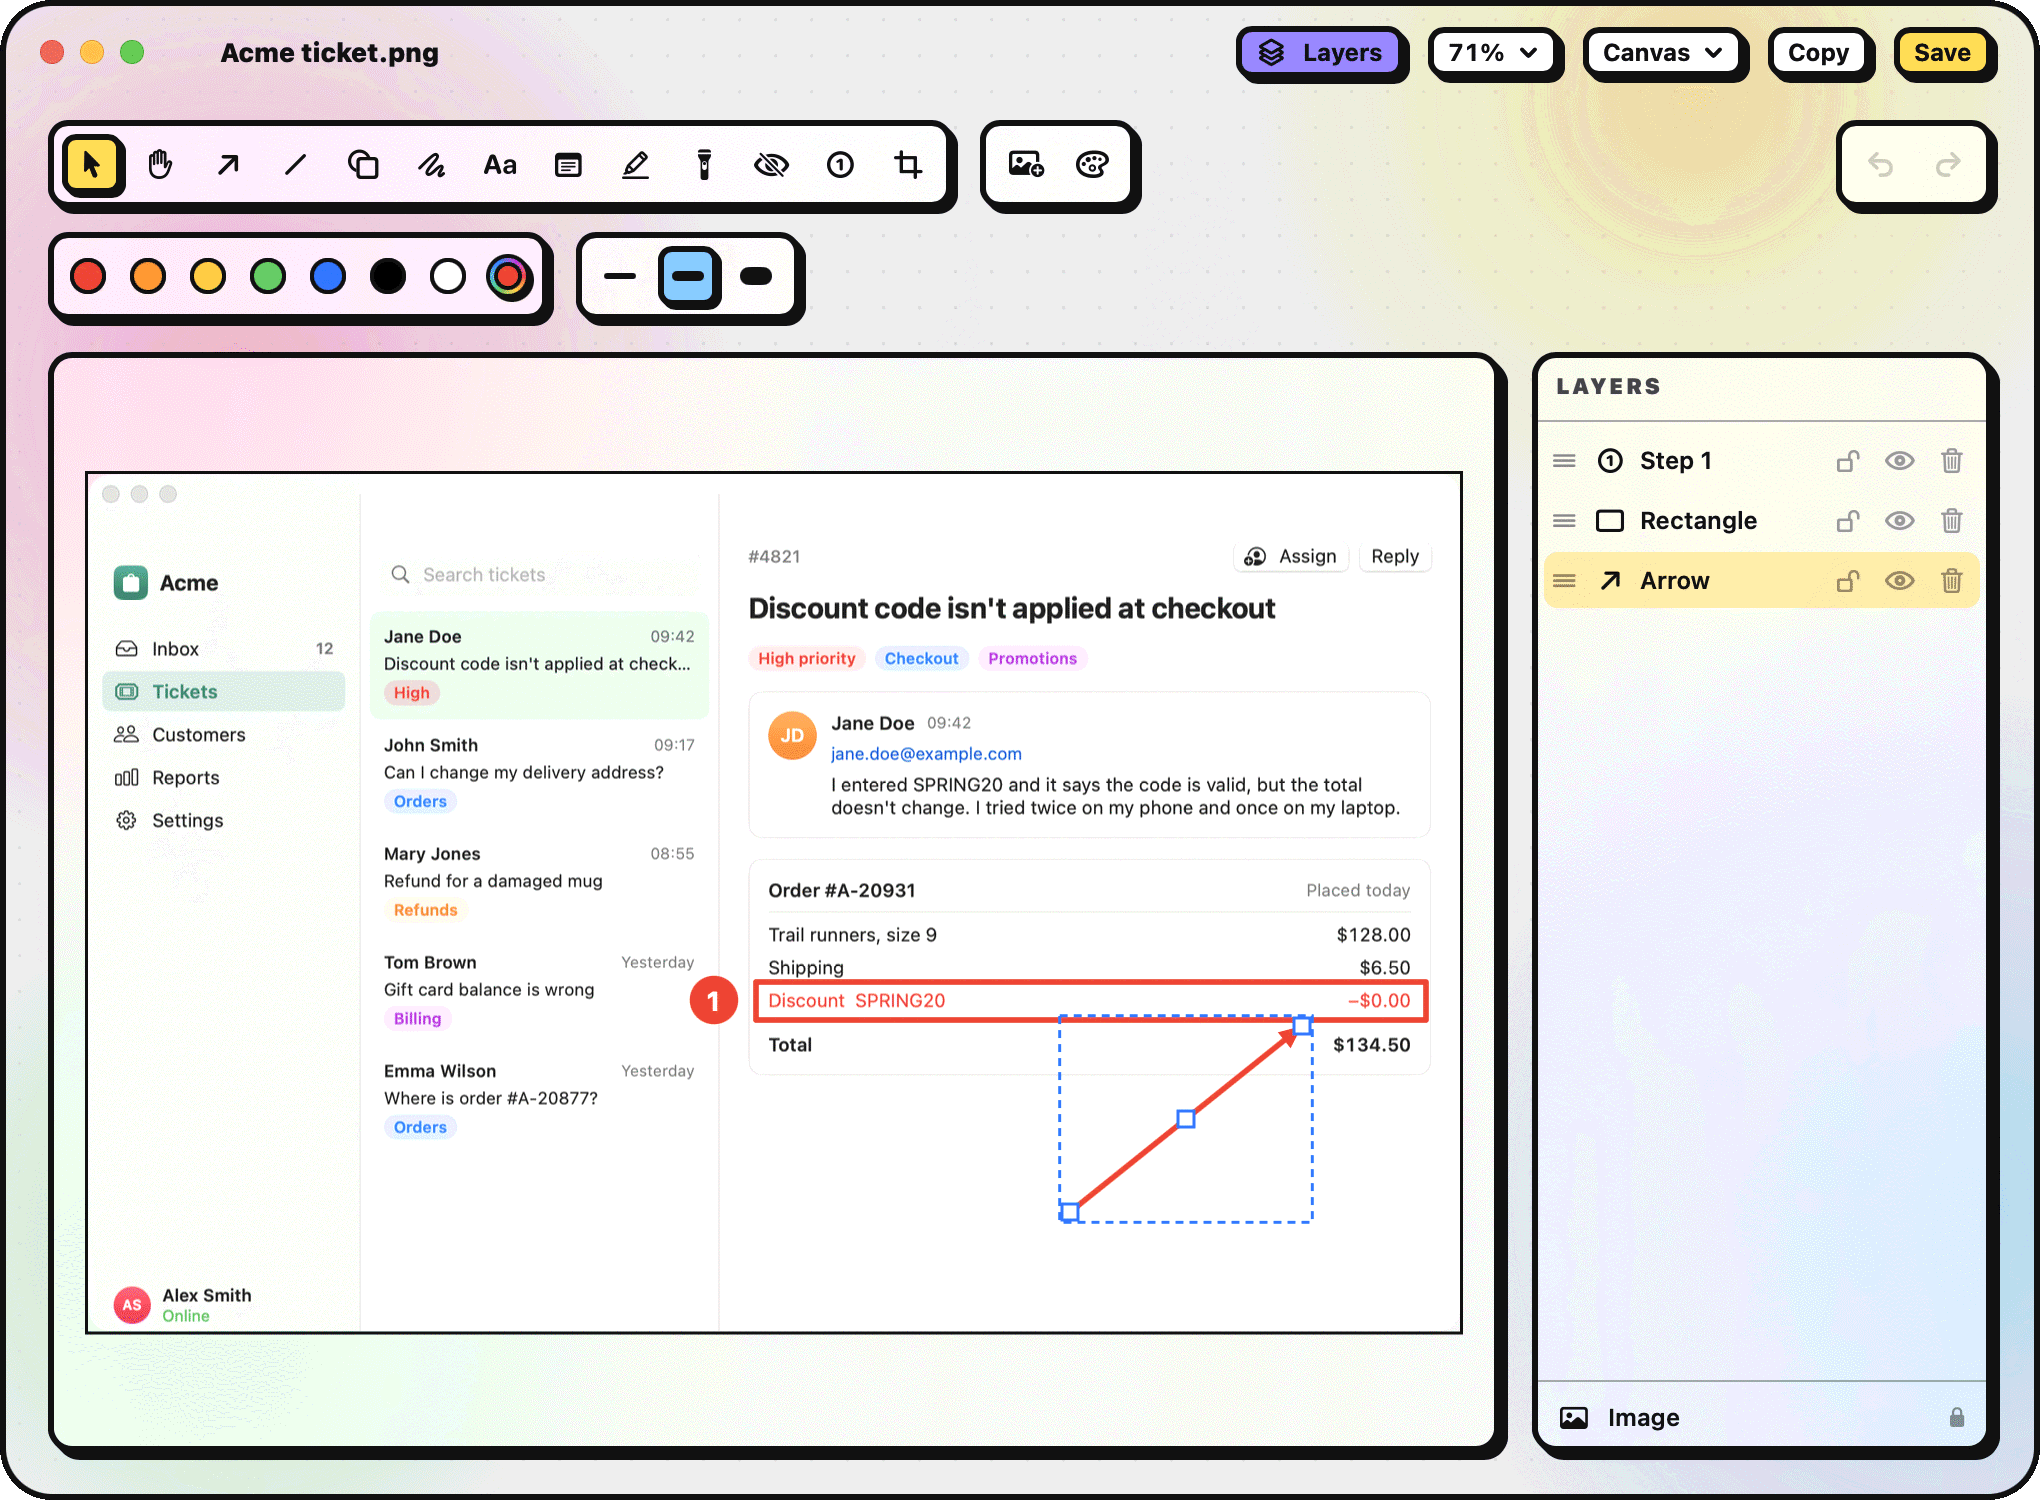
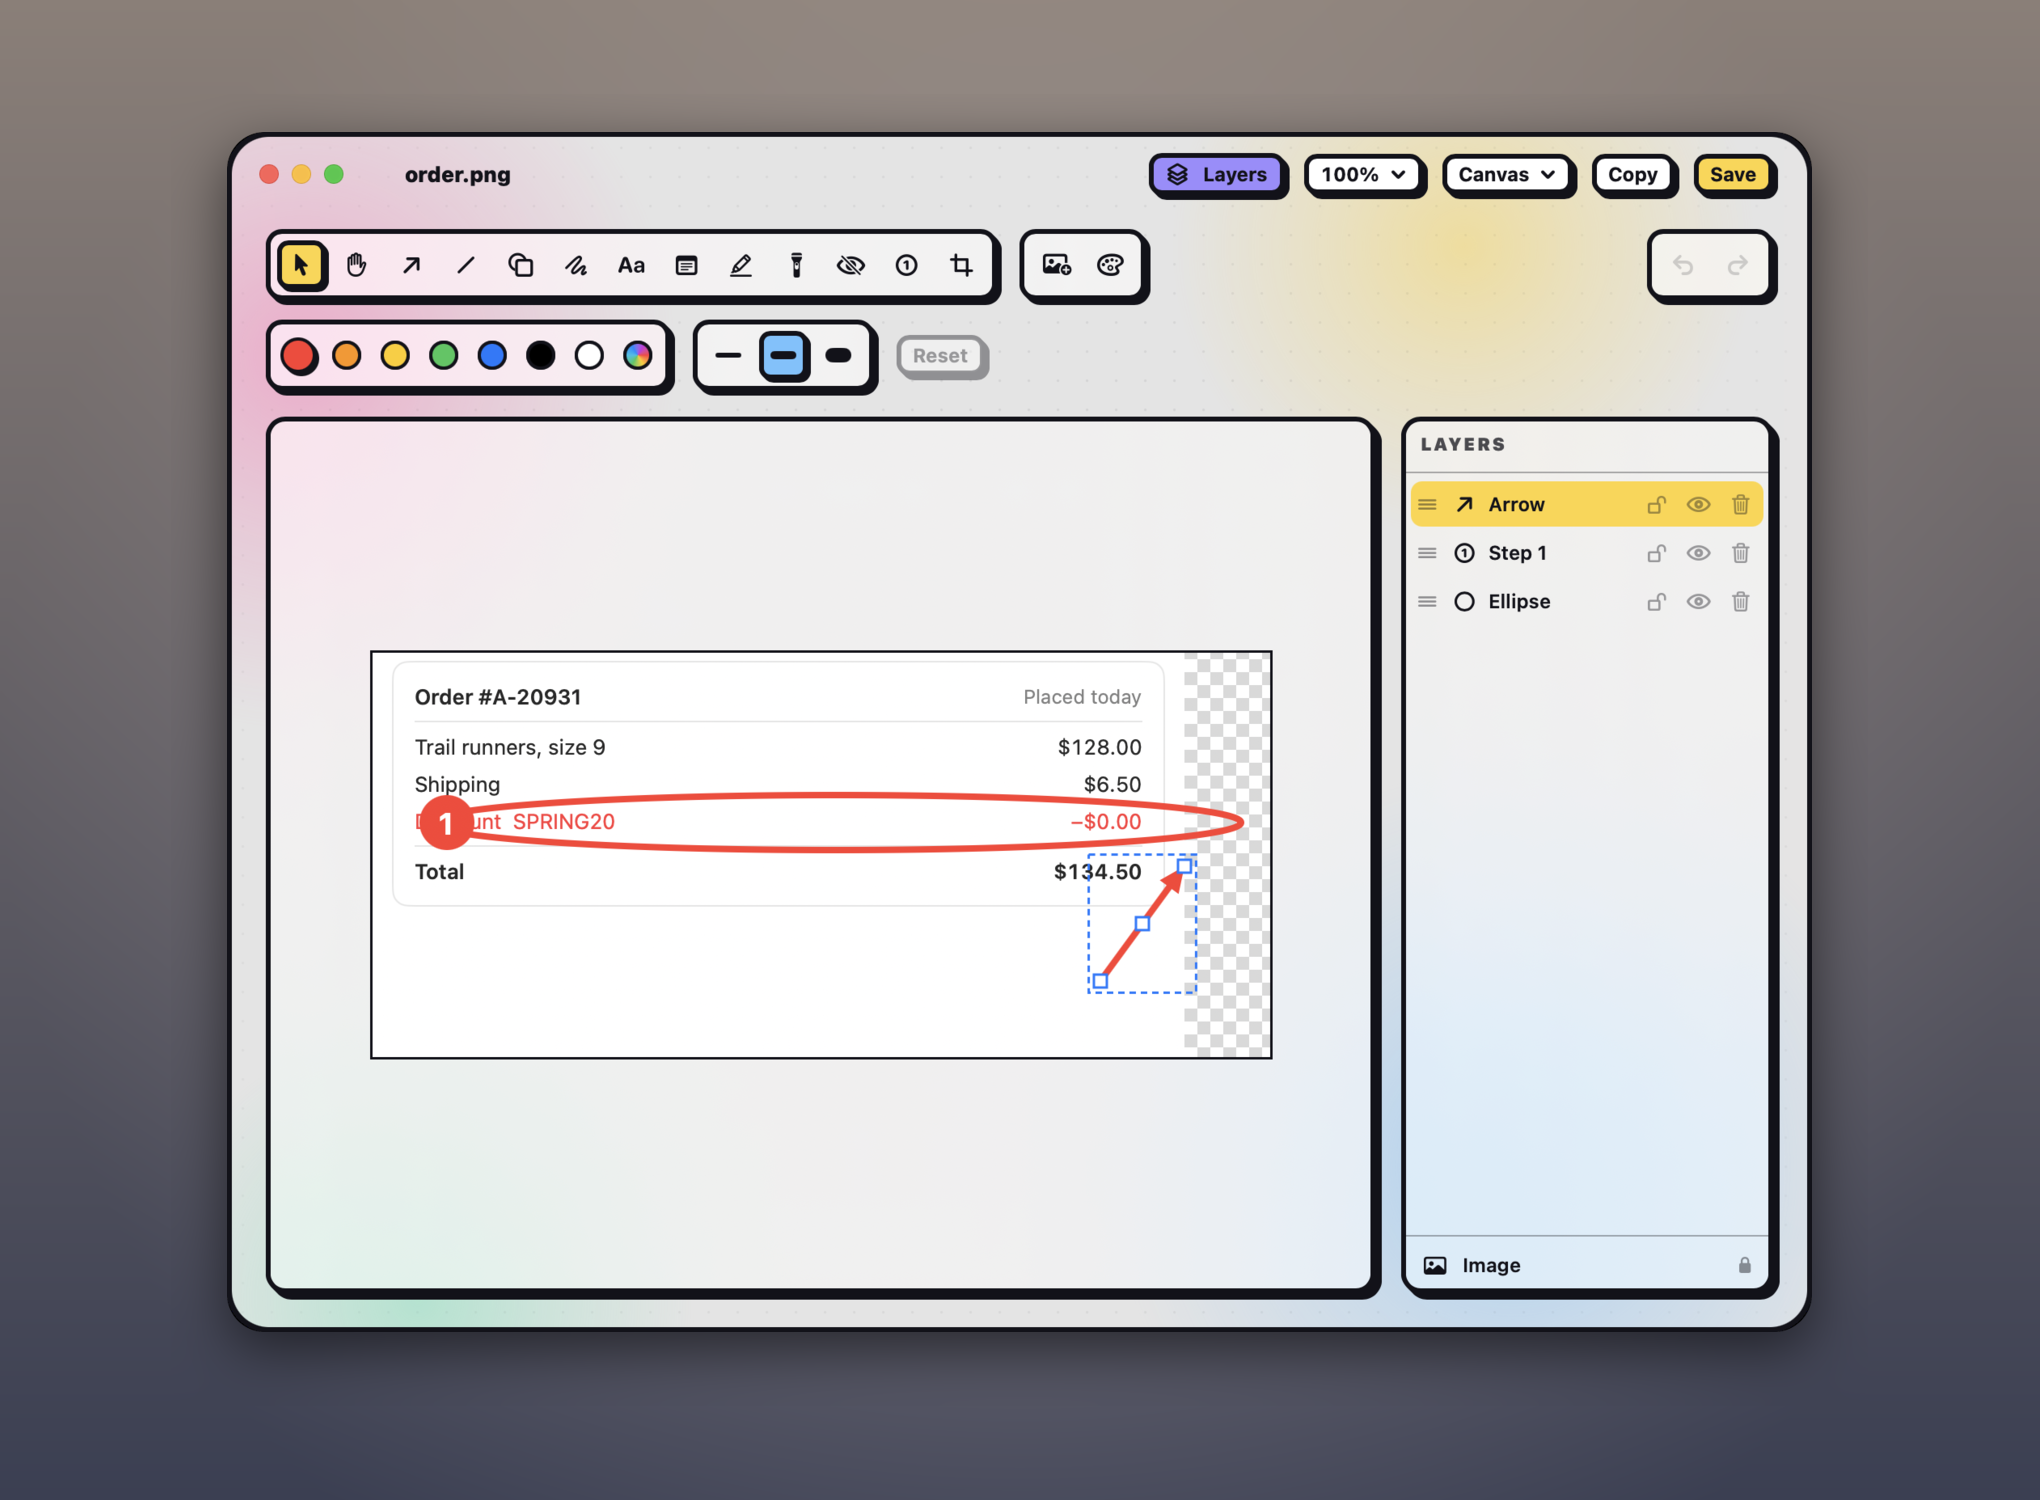
docs(media): reshoot the combine, versions and agent pick screenshots (#873)
Part of #845.

Stacked on #872, so merge that first (its commits show here until then).

Reshot from the Acme Support demo and a default ShotDev:

- `editor-combine.png`: the ticket with the revenue report placed beside
it, selected.
- `editor-versions.png`: a saved version reopened with a counter, an
ellipse and an arrow still live. The alt text now says Ellipse, not
Rectangle.
- `agent-pick.png`: the area selection with the prompt from `shot pick`.
The menu bar is hidden, with a few faint icon tips left at the very top
edge.

## Not done

- `open-anyway.png` is a macOS System Settings screen, not Shot UI, so I
left it. It should be checked on the current macOS.
- A Copy Bug Report result. Clicking it on the demo capture copied
nothing, and I couldn't tell if the on-device model is available here.

---------

diff --git a/site/src/guide/05a-annotate-a-screenshot.md b/site/src/guide/05a-annotate-a-screenshot.md
@@ -96,7 +96,7 @@ The title bar shows **EDITED** while you have unsaved changes, and closing the w
 
 ## Reopen a saved version
 
-![A saved version reopened in the editor as the screenshot it came from, with its counter, box and arrow still live: the arrow is selected with its handles, and the Layers panel lists Step 1, Rectangle and Arrow](../../../docs/media/editor-versions.png)
+![A saved version reopened in the editor as the screenshot it came from, with its counter, ellipse and arrow still live: the arrow is selected with its handles, and the Layers panel lists Step 1, Ellipse and Arrow](../../../docs/media/editor-versions.png)
 
 Open a version you saved, from the gallery, Quick Access or a `shot://annotate` link, and every mark is still live, so you can move, change or delete it. **Save** then writes the next version.
 
